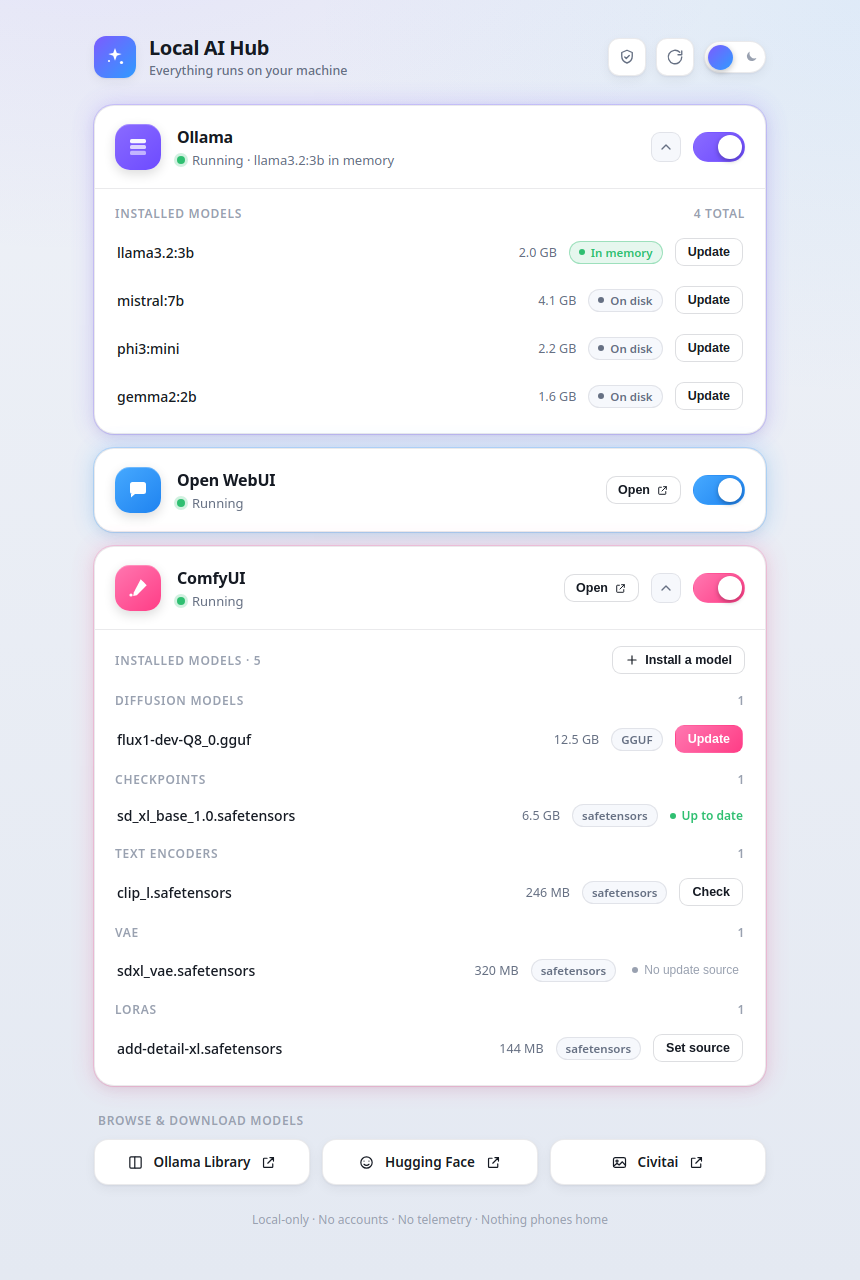
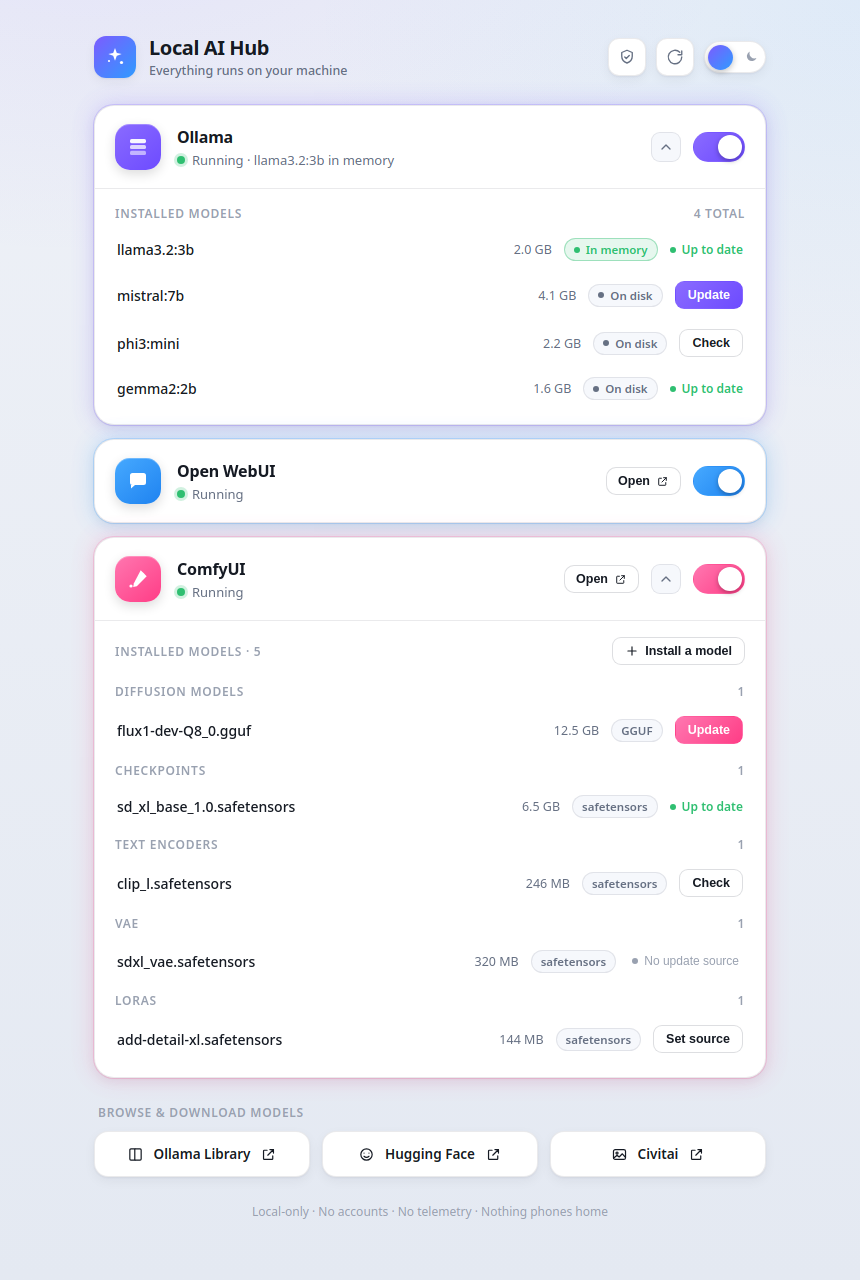
Fix: Ollama Update only when available; stop model-list flicker
Ollama models now check the registry (sha256 of the remote manifest vs the local
digest) and show 'Update' only when one exists, else 'Up to date'; until checked
they show 'Check'. The Refresh button checks every model; a per-row Check works
too. Checks only run on demand (never on the periodic refresh) — no unsolicited
registry calls. Flicker fix: skip re-render when the backend payload is
unchanged, and set the model-list height instantly so a refresh never
re-animates an open list. Ollama's Update button uses the violet accent.

diff --git a/web/app.js b/web/app.js
@@ -49,10 +49,10 @@
     comfyui:   { active: true,  serving: true,  generating: false },
   };
   const SAMPLE_MODELS = [
-    { name: "llama3.2:3b", size_human: "2.0 GB", loaded: true,  vram_human: "3.4 GB" },
-    { name: "mistral:7b",  size_human: "4.1 GB", loaded: false, vram_human: "" },
-    { name: "phi3:mini",   size_human: "2.2 GB", loaded: false, vram_human: "" },
-    { name: "gemma2:2b",   size_human: "1.6 GB", loaded: false, vram_human: "" },
+    { name: "llama3.2:3b", size_human: "2.0 GB", loaded: true,  vram_human: "3.4 GB", update: { available: false, detail: "Up to date" } },
+    { name: "mistral:7b",  size_human: "4.1 GB", loaded: false, vram_human: "", update: { available: true, detail: "Update available" } },
+    { name: "phi3:mini",   size_human: "2.2 GB", loaded: false, vram_human: "", update: null },
+    { name: "gemma2:2b",   size_human: "1.6 GB", loaded: false, vram_human: "", update: { available: false, detail: "Up to date" } },
   ];
   const SAMPLE_COMFY = [
     { category_label: "Diffusion models", name: "flux1-dev-Q8_0.gguf",       size_human: "12.5 GB", format: "GGUF",        source: "huggingface", update: { available: true,  detail: "Update available" } },
@@ -108,12 +108,27 @@
 
       if (meta.hasModels) {
         const wrap = card.querySelector(".models");
-        if (wrap) wrap.style.maxHeight = state.expanded[svc] ? wrap.scrollHeight + "px" : "0";
+        // Set the height instantly (no transition) on every render so a data
+        // refresh never re-animates an already-open list into a flicker.
+        if (wrap) wrap.style.maxHeight = state.expanded[svc] ? "none" : "0";
       }
     }
   }
 
   function esc(s) { return String(s).replace(/[&<>"]/g, c => ({ "&": "&amp;", "<": "&lt;", ">": "&gt;", '"': "&quot;" }[c])); }
+
+  // Ollama update control: Update only when one is available, else Up to date;
+  // Check when we haven't looked yet (or couldn't determine).
+  function ollamaAction(m) {
+    const nm = esc(m.name);
+    if (m.update && m.update.available === true) {
+      return `<button class="btn-sm accent" data-act="update" data-model="${nm}">Update</button>`;
+    }
+    if (m.update && m.update.available === false) {
+      return `<span class="cu-uptodate" title="${esc((m.update && m.update.detail) || "")}">Up to date</span>`;
+    }
+    return `<button class="btn-sm" data-act="ocheck" data-model="${nm}" title="${esc((m.update && m.update.detail) || "Check the registry for an update")}">Check</button>`;
+  }
 
   function modelsMarkup(svc) {
     return svc === "comfyui" ? comfyModelsMarkup() : ollamaModelsMarkup();
@@ -127,7 +142,7 @@
         <span class="model-name">${esc(m.name)}</span>
         <span class="size">${esc(m.size_human || "")}</span>
         <span class="badge ${m.loaded ? "loaded" : ""}"><span class="b-dot"></span>${m.loaded ? "In memory" : "On disk"}</span>
-        <button class="btn-sm" data-act="update" data-model="${esc(m.name)}">Update</button>
+        ${ollamaAction(m)}
       </div>`).join("") : `<div class="model"><span class="model-name" style="color:var(--text-faint)">No models installed</span></div>`;
     return `
       <div class="models">
@@ -514,9 +529,13 @@
   function onRescan() {
     const b = document.getElementById("rescanBtn");
     if (b) { b.classList.add("spinning"); setTimeout(() => b.classList.remove("spinning"), 900); }
-    toast("Rescanning for models…");
-    if (backend && backend.request_refresh) backend.request_refresh();
-    else render();
+    toast("Rescanning + checking for updates…");
+    if (backend) {
+      if (backend.request_refresh) backend.request_refresh();
+      if (backend.check_ollama_updates) backend.check_ollama_updates();   // check every model
+    } else {
+      render();
+    }
   }
 
   function wire() {
@@ -544,6 +563,7 @@
       if (act === "toggle") onToggle(svc);
       else if (act === "expand") onExpand(svc);
       else if (act === "update") onUpdate(el.dataset.model);
+      else if (act === "ocheck") { if (backend && backend.check_ollama_update) { toast("Checking for update…"); backend.check_ollama_update(el.dataset.model); } }
       else if (act === "csource") openSourceModal(el.dataset.path, el.dataset.name);
       else if (act === "ccheck") onComfyCheck(el.dataset.path);
       else if (act === "cupdate") onComfyUpdate(el.dataset.path);
@@ -559,8 +579,14 @@
   }
 
   // ---- data intake from backend ------------------------------------------
+  let lastPayloadKey = "";
   function applyState(payload) {
-    // payload: { services: {svc:{active,serving,loaded}}, models: [...] }
+    // Skip the re-render entirely when nothing changed — the periodic refresh
+    // fires every few seconds, and re-rendering unchanged data is what caused
+    // the open model list to flicker.
+    const key = JSON.stringify(payload);
+    if (key === lastPayloadKey) return;
+    lastPayloadKey = key;
     if (payload.services) state.services = payload.services;
     if (payload.models) state.models = payload.models;
     if (payload.comfyui_models) state.comfyModels = payload.comfyui_models;

diff --git a/web/styles.css b/web/styles.css
@@ -302,6 +302,9 @@ body {
   background: linear-gradient(135deg, #ff77b0, #ff3d86); }
 .btn-sm.accent:hover { filter: brightness(1.06);
   background: linear-gradient(135deg, #ff77b0, #ff3d86); }
+/* Ollama's Update button uses the Ollama (violet) accent, not the ComfyUI pink */
+.card[data-svc="ollama"] .btn-sm.accent { background: linear-gradient(135deg, #8a6bff, #6d4bff); }
+.card[data-svc="ollama"] .btn-sm.accent:hover { background: linear-gradient(135deg, #8a6bff, #6d4bff); }
 .cu-uptodate { font-size: 12px; color: var(--ok); font-weight: 600;
   display: inline-flex; align-items: center; gap: 6px; flex: none; }
 .cu-uptodate::before { content: ""; width: 6px; height: 6px; border-radius: 50%; background: currentColor; }

diff --git a/hub/services/ollama.py b/hub/services/ollama.py
@@ -8,11 +8,14 @@ Uses the REST API on 127.0.0.1:11434 (stdlib only, no `ollama` python dep):
 """
 from __future__ import annotations
 
+import hashlib
 import json
 import urllib.error
 import urllib.request
 from dataclasses import dataclass
-from typing import Callable, Iterable, Optional
+from typing import Callable, Optional
+
+OLLAMA_REGISTRY = "https://registry.ollama.ai/v2"
 
 from .base import Service
 
@@ -98,6 +101,46 @@ class OllamaService(Service):
             )
         models.sort(key=lambda x: x.name)
         return models
+
+    def check_update(self, name: str) -> dict:
+        """Is a newer version of this model available in the Ollama registry?
+
+        Compares the local manifest digest (from /api/tags) with the sha256 of
+        the remote manifest. Returns {available, current, latest, detail};
+        available is None when it can't be determined (e.g. a local-only model).
+        """
+        try:
+            data = self._get("/api/tags")
+        except Exception as exc:  # noqa: BLE001
+            return {"available": None, "detail": f"error: {exc}"}
+        local = ""
+        for m in data.get("models", []):
+            if m.get("name") == name:
+                local = (m.get("digest") or "").split(":")[-1].lower()
+                break
+        if not local:
+            return {"available": None, "detail": "not installed"}
+
+        repo, tag = name.rsplit(":", 1) if ":" in name else (name, "latest")
+        if "/" not in repo:
+            repo = "library/" + repo
+        url = f"{OLLAMA_REGISTRY}/{repo}/manifests/{tag}"
+        req = urllib.request.Request(
+            url, headers={"Accept": "application/vnd.docker.distribution.manifest.v2+json"})
+        try:
+            with urllib.request.urlopen(req, timeout=20) as resp:
+                body = resp.read()
+        except urllib.error.HTTPError as exc:
+            if exc.code == 404:
+                return {"available": None, "detail": "not in registry (local-only model)"}
+            return {"available": None, "detail": f"registry error {exc.code}"}
+        except Exception as exc:  # noqa: BLE001
+            return {"available": None, "detail": f"error: {exc}"}
+
+        remote = hashlib.sha256(body).hexdigest().lower()
+        available = remote != local
+        return {"available": available, "current": local[:12], "latest": remote[:12],
+                "detail": "Update available" if available else "Up to date"}
 
     def loaded_model(self) -> Optional[str]:
         """Name of the model currently loaded in memory, if any (first one)."""

diff --git a/app.py b/app.py
@@ -50,6 +50,7 @@ class Backend(QObject):
             "comfyui": self.comfyui,
         }
         self._last_failed: dict = {}   # for one-shot "stopped unexpectedly" alerts
+        self._ollama_updates: dict = {}   # model name -> last update-check result
 
     # --- state collection ----------------------------------------------------
     def _collect(self) -> dict:
@@ -84,6 +85,10 @@ class Backend(QObject):
                 models = [m.to_dict() for m in self.ollama.list_models()]
             except Exception:
                 models = []
+        # Attach the cached update-check result (checks happen only on demand,
+        # never on the periodic refresh — no unsolicited registry calls).
+        for m in models:
+            m["update"] = self._ollama_updates.get(m["name"])
         services["ollama"]["loaded"] = loaded
 
         # ComfyUI extras: models are a disk scan (shown even when stopped);
@@ -228,6 +233,35 @@ class Backend(QObject):
         threading.Thread(target=work, daemon=True).start()
 
     @Slot(str)
+    def check_ollama_update(self, name: str) -> None:
+        def work() -> None:
+            try:
+                st = self.ollama.check_update(name)
+                self._ollama_updates[name] = st
+                self.notify.emit(f"{name}: {st['detail']}")
+            except Exception as exc:  # noqa: BLE001
+                self.notify.emit(f"Check failed: {exc}")
+            self._emit_state()
+        threading.Thread(target=work, daemon=True).start()
+
+    @Slot()
+    def check_ollama_updates(self) -> None:
+        """Check every installed Ollama model for updates (used by Refresh)."""
+        def work() -> None:
+            try:
+                names = [m.name for m in self.ollama.list_models()]
+            except Exception:
+                names = []
+            for name in names:
+                try:
+                    self._ollama_updates[name] = self.ollama.check_update(name)
+                except Exception:
+                    pass
+            self.notify.emit("Checked models for updates")
+            self._emit_state()
+        threading.Thread(target=work, daemon=True).start()
+
+    @Slot(str)
     def pull_model(self, name: str) -> None:
         """Pull/update a model via the real Ollama API, reporting progress."""
         def work() -> None:
@@ -245,6 +279,7 @@ class Backend(QObject):
                 self.notify.emit(f"Updating {name}…")
                 self.ollama.pull_model(name, progress_cb=cb)
                 self.notify.emit(f"{name} is up to date")
+                self._ollama_updates[name] = {"available": False, "detail": "Up to date"}
             except Exception as exc:  # noqa: BLE001
                 self.notify.emit(f"Update failed for {name}: {exc}")
             self.state_changed.emit(json.dumps(self._collect()))